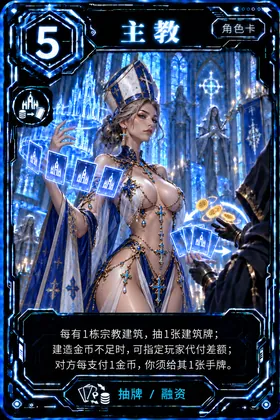
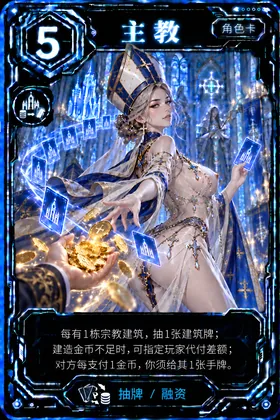
feat(neon): 更新主教角色卡图

diff --git a/public/themes/neon/manifest.js b/public/themes/neon/manifest.js
@@ -22,11 +22,11 @@
   ];
 
   function variants(folder, key) {
-    // 墓地卡图曾把建造费用 5 错印成能力支付费用 1，勒索者卡图已更新，
-    // 法师使用新版卡图，魔术师恢复为原卡图；
+    // 墓地卡图曾把建造费用 5 错印成能力支付费用 1，勒索者、法师和主教卡图已更新，
+    // 魔术师恢复为原卡图；
     // 单独版本化，让已安装 PWA 绕过旧图片的 HTTP / Service Worker 缓存。
     const versioned = (folder === 'districts' && key === 'graveyard') ||
-      (folder === 'roles' && (key === 'blackmailer' || key === 'magician' || key === 'wizard'));
+      (folder === 'roles' && (key === 'blackmailer' || key === 'magician' || key === 'wizard' || key === 'bishop'));
     const version = folder === 'roles' && key === 'magician'
       ? '?v=3'
       : (versioned ? '?v=2' : '');

diff --git a/public/app.js b/public/app.js
@@ -4172,7 +4172,7 @@
   window.__CitadelsApp = App;
   // PWA：支持从主屏幕/桌面以独立窗口启动；联机功能仍需网络连接服务器。
   if (typeof navigator !== 'undefined' && navigator.serviceWorker && location.protocol !== 'file:') {
-    navigator.serviceWorker.register('./sw.js?v=12', { scope: './' }).then(registration => {
+    navigator.serviceWorker.register('./sw.js?v=13', { scope: './' }).then(registration => {
       // GitHub Pages 上的 PWA 可能长时间保持旧 worker，启动时主动检查一次新版本。
       registration.update().catch(() => {});
       registration.addEventListener('updatefound', () => {

diff --git a/test/theme-assets.js b/test/theme-assets.js
@@ -60,6 +60,10 @@ const wizard = manifest.cards.roles.wizard;
 if (!/wizard\.webp\?v=2$/.test(wizard.thumb) || !/wizard\.webp\?v=2$/.test(wizard.full)) {
   throw new Error('法师更新卡图缺少缓存版本标记');
 }
+const bishop = manifest.cards.roles.bishop;
+if (!/bishop\.webp\?v=2$/.test(bishop.thumb) || !/bishop\.webp\?v=2$/.test(bishop.full)) {
+  throw new Error('主教更新卡图缺少缓存版本标记');
+}
 
 const roleKeys = Object.keys(manifest.cards.roles);
 const districtKeys = Object.keys(manifest.cards.districts);

diff --git a/public/index.html b/public/index.html
@@ -407,7 +407,7 @@
   </div>
 </div>
 
-<script src="./themes/neon/manifest.js?v=7"></script>
+<script src="./themes/neon/manifest.js?v=8"></script>
 <script src="./themes/theme-manager.js?v=2"></script>
 <script src="./src/cards.js?v=4"></script>
 <script src="./src/engine.js?v=16"></script>
